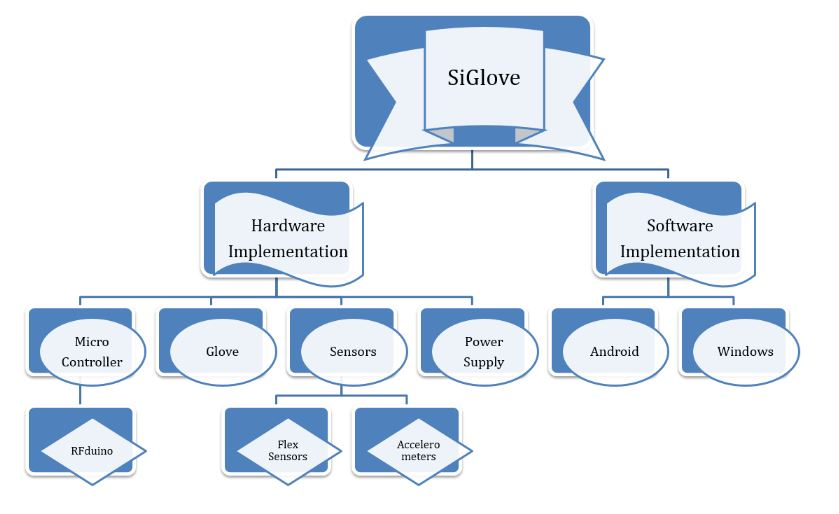
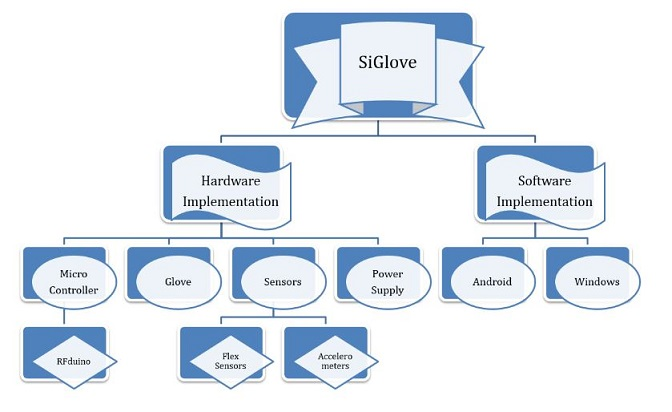
Updated Presentation

diff --git a/index.html b/index.html
@@ -323,17 +323,33 @@
                        <div class="col-md-3 col-sm-6 col-xs-12 gallery-item">
                             <div class="gallery-thumb">
 								<h3>Top Level Diagram</h3>
-								<img src="img/toplevel.png" style="width=40%; height=40% cursor:pointer" onclick="showImage('img/toplevel.png');" />
+								<img src="img/toplevel.jpg" style="width=40%; height=40% cursor:pointer" onclick="showImage('img/toplevel.jpg');" />
 								<div id="largeImgPanel" onclick="hideMe(this);">
-									<img id="largeImg" style="height: 100%; width: 100%" />
+									<img class="centered" id="largeImg" style="height: 80%; width: 80%" />
 								</div>
                             </div>
-							<br/>
+							</br>
 							<div class="gallery-thumb">
 								<h3>Detailed Diagram</h3>
-								<img src="img/detailed.png" style="width=400%; height=400% cursor:pointer" onclick="showImage('img/detailed.png');" />
+								<img src="img/Detailed.jpg" style="width=400%; height=400% cursor:pointer" onclick="showImage('img/Detailed.jpg');" />
 								<div id="largeImgPanel" onclick="hideMe(this);">
-									<img id="largeImg" style="height: 300%; width: 80%" />
+									<img class="centered" id="largeImg" style="height: 300%; width: 80%" />
+								</div>
+                            </div>
+							</br>
+							<div class="gallery-thumb">
+								<h3>Housing Unit</h3>
+								<img src="img/HousingUnit.jpg" style="width=100%; height=100% cursor:pointer" onclick="showImage('img/HousingUnit.jpg');" />
+								<div id="largeImgPanel" onclick="hideMe(this);">
+									<img class="centered" id="largeImg" style="height: 100%; width: 100%" />
+								</div>
+                            </div>
+							</br>
+							<div class="gallery-thumb">
+								<h3>Circuit Schematic</h3>
+								<img src="img/schematic.jpg" style="width=100%; height=100% cursor:pointer" onclick="showImage('img/schematic.jpg');" />
+								<div id="largeImgPanel" onclick="hideMe(this);">
+									<img class="centered" id="largeImg" style="height: 80%; width: 80%" />
 								</div>
                             </div>
                         </div>
@@ -364,7 +380,7 @@
                         <div class="profile-content">
                             <h4>Product Purchasing and Android Development</h4>
                             <span>April 20, 2015</span>
-                            <p>This week we are waiting on our parts to arrive. We have ordered an Arduino uno as well as a Bluetooth transceiver to connect with a computer. The specific parts used are listed in the parts list on the website. In terms of sensors, we ordered a triple axis accelerometer and a flex sensor. Once the parts arrive we plan on testing the range of each of the sensors as well as testing the ADC’s on the Arduino board.  While waiting for these parts to arrive, we spent time familiarizing ourselves with android development as well as how to connect devices via Bluetooth. In terms of languages and IDE we are writing our android code in java using android studio.</a></p>
+                            <p>This week we are waiting on our parts to arrive. We have ordered an Arduino uno as well as a Bluetooth transceiver to connect with a computer. The specific parts used are listed in the parts list on the website. In terms of sensors, we ordered a triple axis accelerometer and a flex sensor. Once the parts arrive we plan on testing the range of each of the sensors as well as testing the ADC’s on the Arduino board.  While waiting for these parts to arrive, we spent time familiarizing ourselves with <a href="http://www.instructables.com/id/How-control-arduino-board-using-an-android-phone-a/">android development</a> as well as how to connect devices via Bluetooth. In terms of languages and IDE we are writing our android code in java using android studio.</a></p>
                         </div>
                     </div>
 					<div class="col-md-4 col-sm-6 col-xs-12">
@@ -430,12 +446,16 @@
                     </div>
                 </div>
                 <div class="row"> <!--Pictures-->
-                    <div class="gallery-holder">
-                        <div class="col-md-8 col-sm-8">
-							<a href="PartsList.pdf" download>Parts</a>
-                        </div>
+					<div class="col-md-8 col-sm-8">
+						<a href="PartsList.pdf" download>List of Parts</a>
+                    </div>
+					<div class="col-md-8 col-sm-8">
+						<a href="img/BOM.jpg" download>Bill of Materials</a>
+                    </div>
+					<div class="gallery-holder">
                     </div>
                 </div>
+				
             </div>
         </section>
 		

diff --git a/css/templatemo-style.css b/css/templatemo-style.css
@@ -30,6 +30,13 @@ html,body,div,span,applet,object,iframe,h1,h2,h3,h4,h5,h6,p,blockquote,pre,a,abb
     vertical-align: baseline;
 }
 
+.centered {
+	position: fixed;
+	top: 50%;
+	left: 50%;
+	transform: translate(-50%, -50%);
+}
+
 .yellow {
 	color: #FF0;
 }
